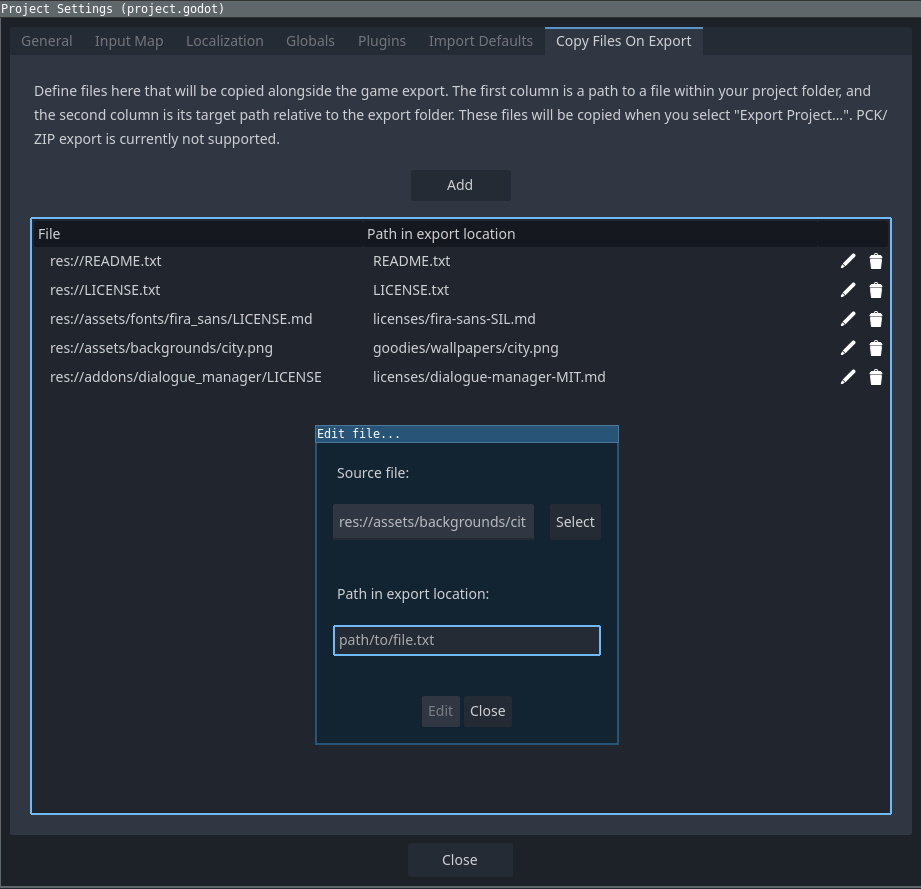
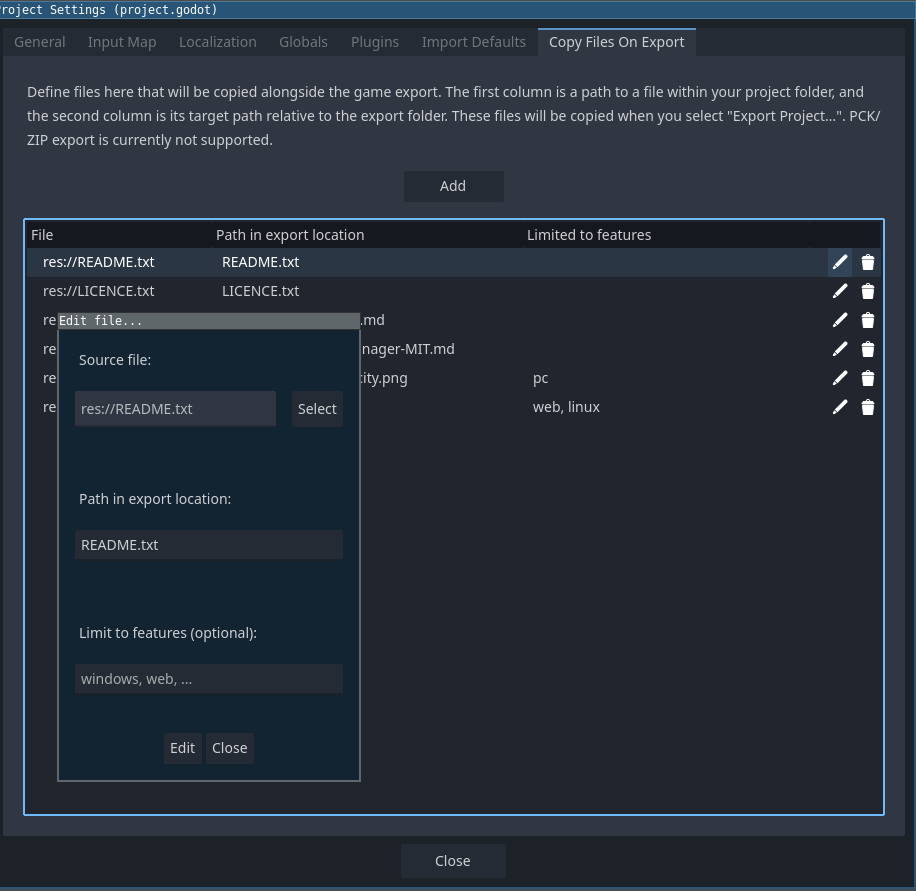
add optional filtering by feature tag

diff --git a/README.md b/README.md
@@ -2,7 +2,7 @@
 
 # Copy Files On Export, a Godot addon
 
-Copy Files On Export is an addon for [Godot 4](https://godotengine.org) which allows you to define a set of files which will be copied alongside the project when it is exported! Useful if you want to include a README or other files for your users without having to copy the files manually or set up automation via external means.
+Copy Files On Export is an addon for [Godot 4](https://godotengine.org) which allows you to define a set of files which will be copied alongside the project when it is exported, optionally filterable by feature! Useful if you want to include a README or other files for your users without having to copy the files manually or set up automation via external means.
 
 ![Screenshot of the addon's settings section in Project ](media/screenshot1.png)
 
@@ -10,7 +10,7 @@ The minimum supported Godot version is Godot 4.2, although it likely also works 
 
 ## Installation
 
-First, make sure you have a valid Godot engine version
+First, make sure you have a valid Godot engine version.
 
 Download the ZIP from github and put the `addons` folder in your project root or just look up the addon on the Godot AssetLib and press Download!
 
@@ -26,15 +26,18 @@ To configure the addon, head to _Project_ → _Project Settings_ → _Copy Files
 * `./foo/bar/some-file.txt`
 * etc.
 
+If you want to limit the file to one or more specific feature tags, you can enter them comma-separated in the `Limit to features` field.
+
 For example, if you define the following set of files:
 
-| File                                    | Path in export location          |
-|-----------------------------------------|----------------------------------|
-| res://README.txt                        | README.txt                       |
-| res://LICENCE.txt                       | LICENCE.txt                      |
-| res://assets/fonts/fira_sans/LICENSE.md | licenses/fira-sans-SIL.md        |
-| res://assets/backgrounds/city.png       | goodies/wallpapers/city.png      |
-| res://addons/dialogue_manager/LICENSE   | licenses/dialogue-manager-MIT.md |
+| File                                    | Path in export location          | Limited to features   |
+|-----------------------------------------|----------------------------------|-----------------------|
+| res://README.txt                        | README.txt                       |                       |
+| res://LICENCE.txt                       | LICENCE.txt                      |                       |
+| res://assets/fonts/fira_sans/LICENSE.md | licenses/fira-sans-SIL.md        |                       |
+| res://addons/dialogue_manager/LICENSE   | licenses/dialogue-manager-MIT.md |                       |
+| res://assets/backgrounds/city.png       | goodies/wallpapers/city.png      | windows, macos, linux |
+| res://assets/stylesheet.css             | stylesheet.css                   | web                   |
 
 After exporting your project your target folder (or ZIP file) will have the following structure:
 
@@ -48,11 +51,14 @@ After exporting your project your target folder (or ZIP file) will have the foll
 │   └── fira-sans-SIL.md
 ├── LICENSE.txt
 ├── README.txt
+├── stylesheet.css
 ├── your_game.exe
 └── your_game.pck
 ```
 
-(On MacOS, the data will be placed alongside the `*.app`)
+The file `goodies/wallpapers/city.png` will only be included in exports with the `pc` feature tag (e.g. Windows, MacOS or Linux exports), while `stylesheet.css` will be included in exports which have either the `web` or `linux` tags.
+
+On MacOS, the data will be placed alongside the `*.app`. Android and iOS exports are currently untested, therefore, "officially" unsupported. I'll appreciate any test results you can post!
 
 ## Troubleshooting
 
